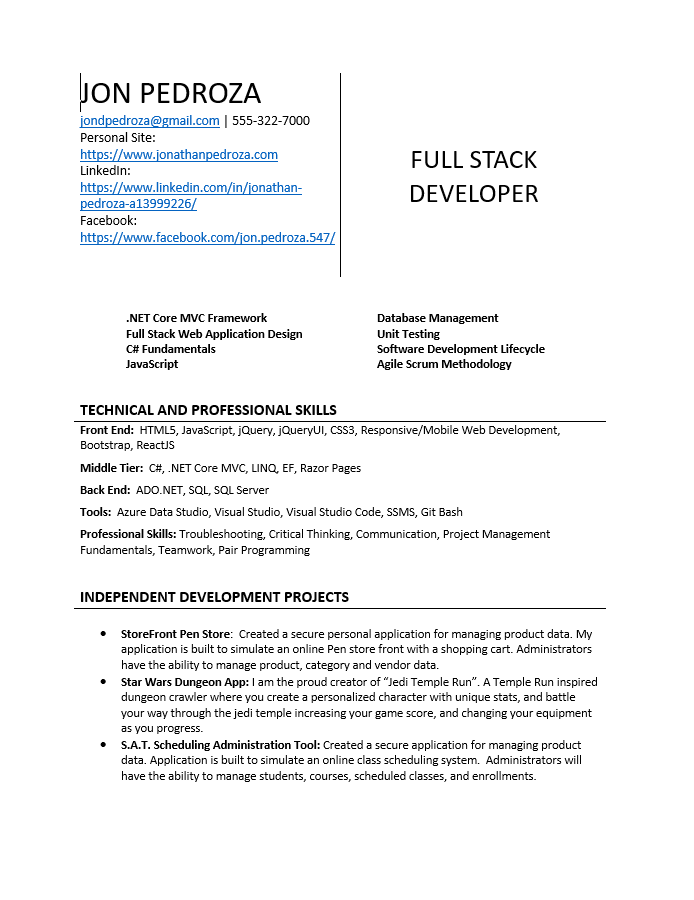
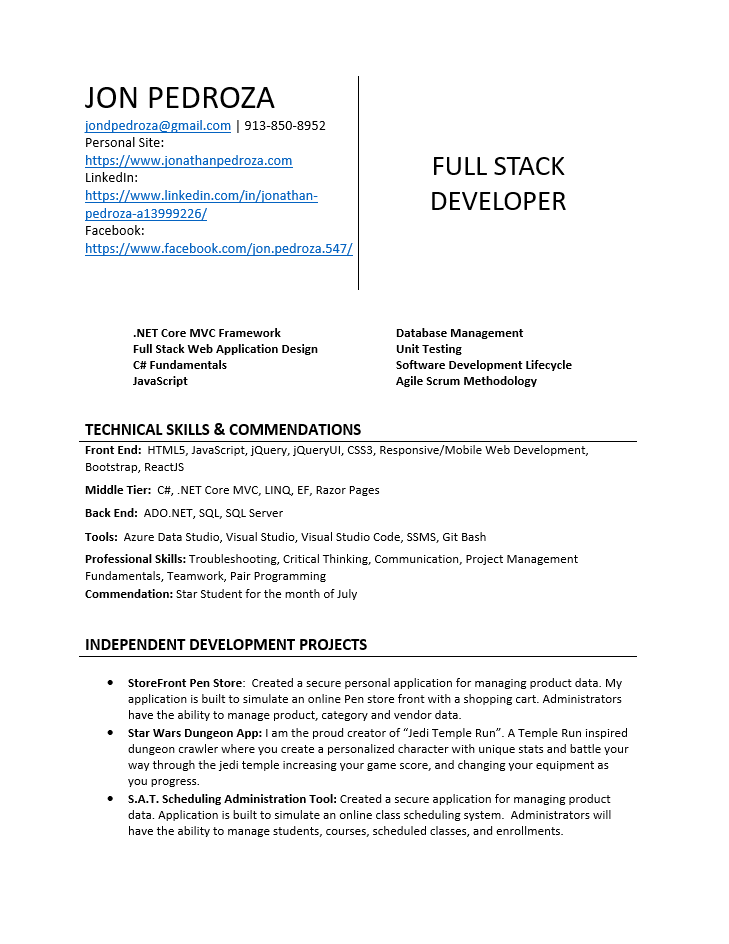
Added cleaner images to page and fixed some typing errors

diff --git a/JP_PersonalSite/wwwroot/assets/css/style.css b/JP_PersonalSite/wwwroot/assets/css/style.css
@@ -523,6 +523,7 @@ div #indeximg{
   border-radius: 10px;
   margin-bottom: 15px;
   margin-left: 18px;
+  height: 380px;
 }
 div #indexpitch{
   border: 10px solid rgb(243, 208, 93) ;
